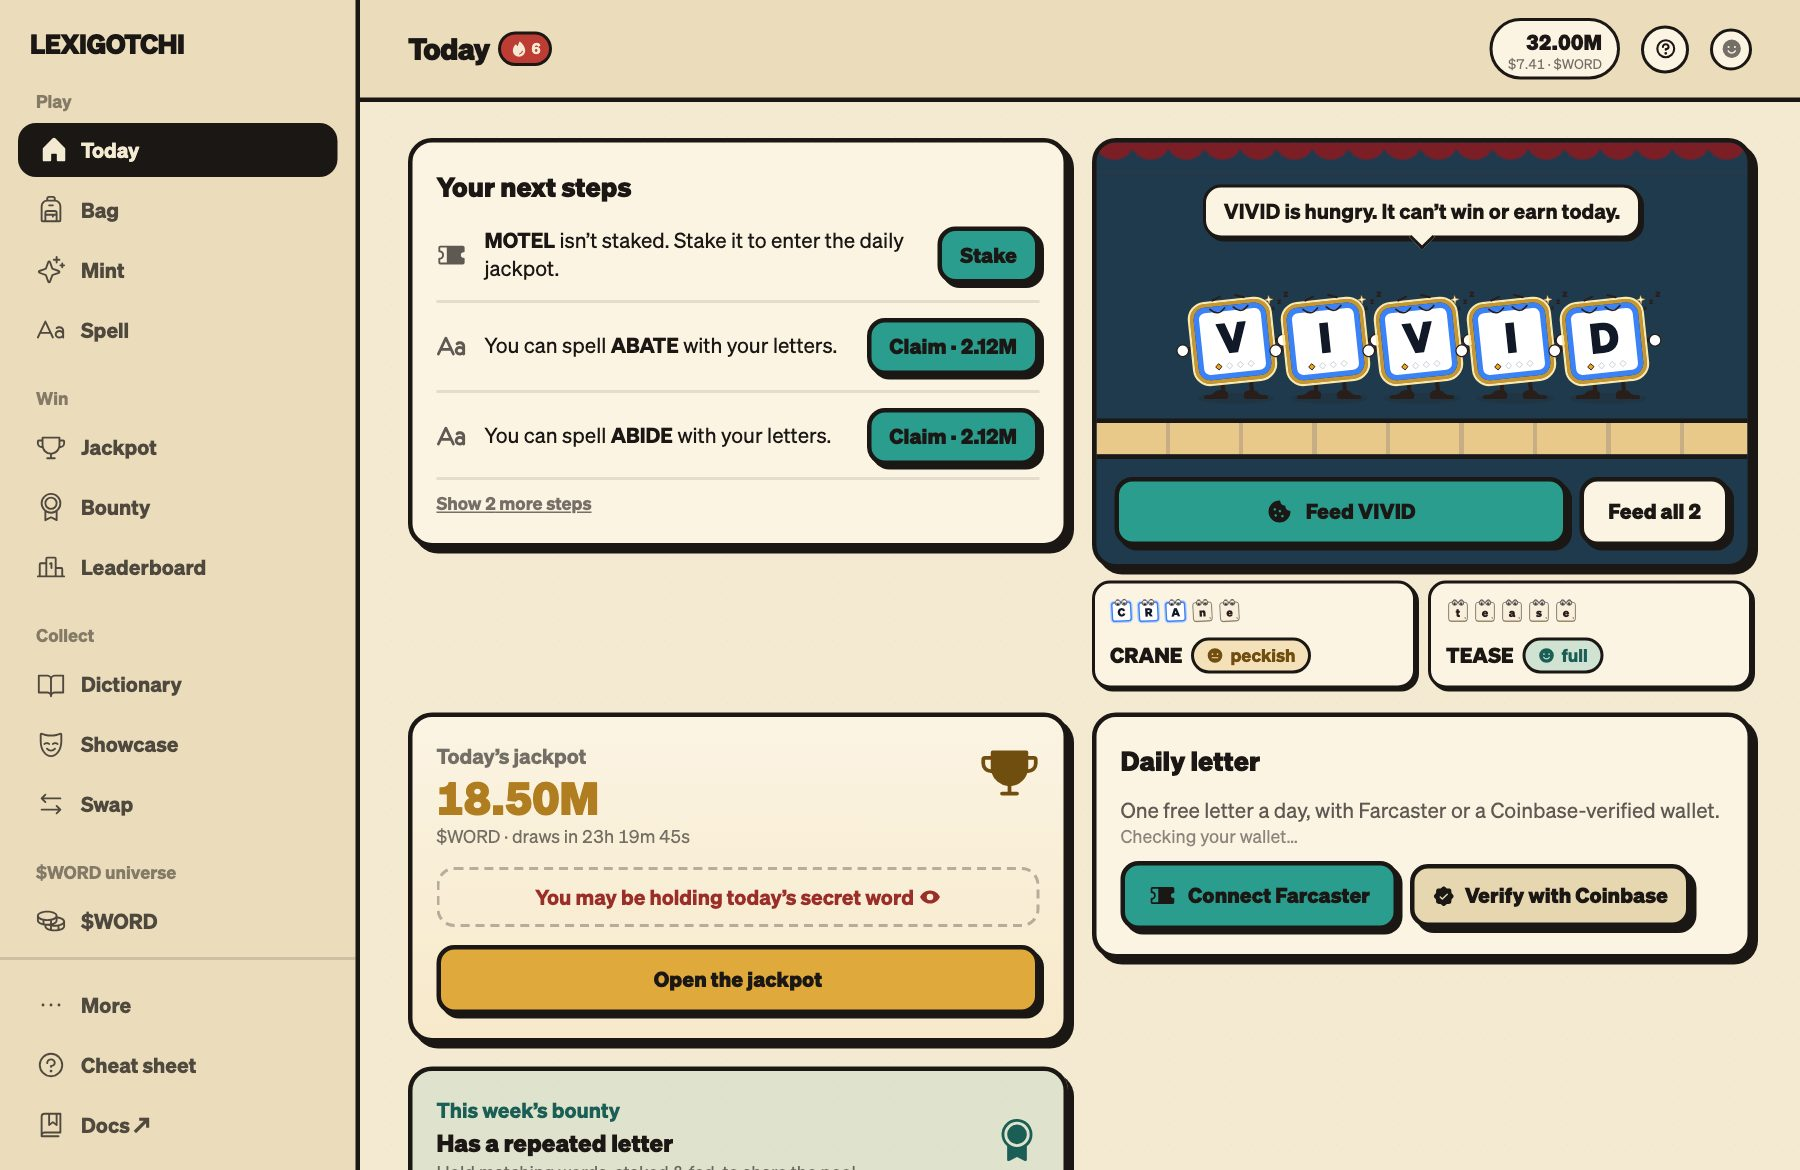
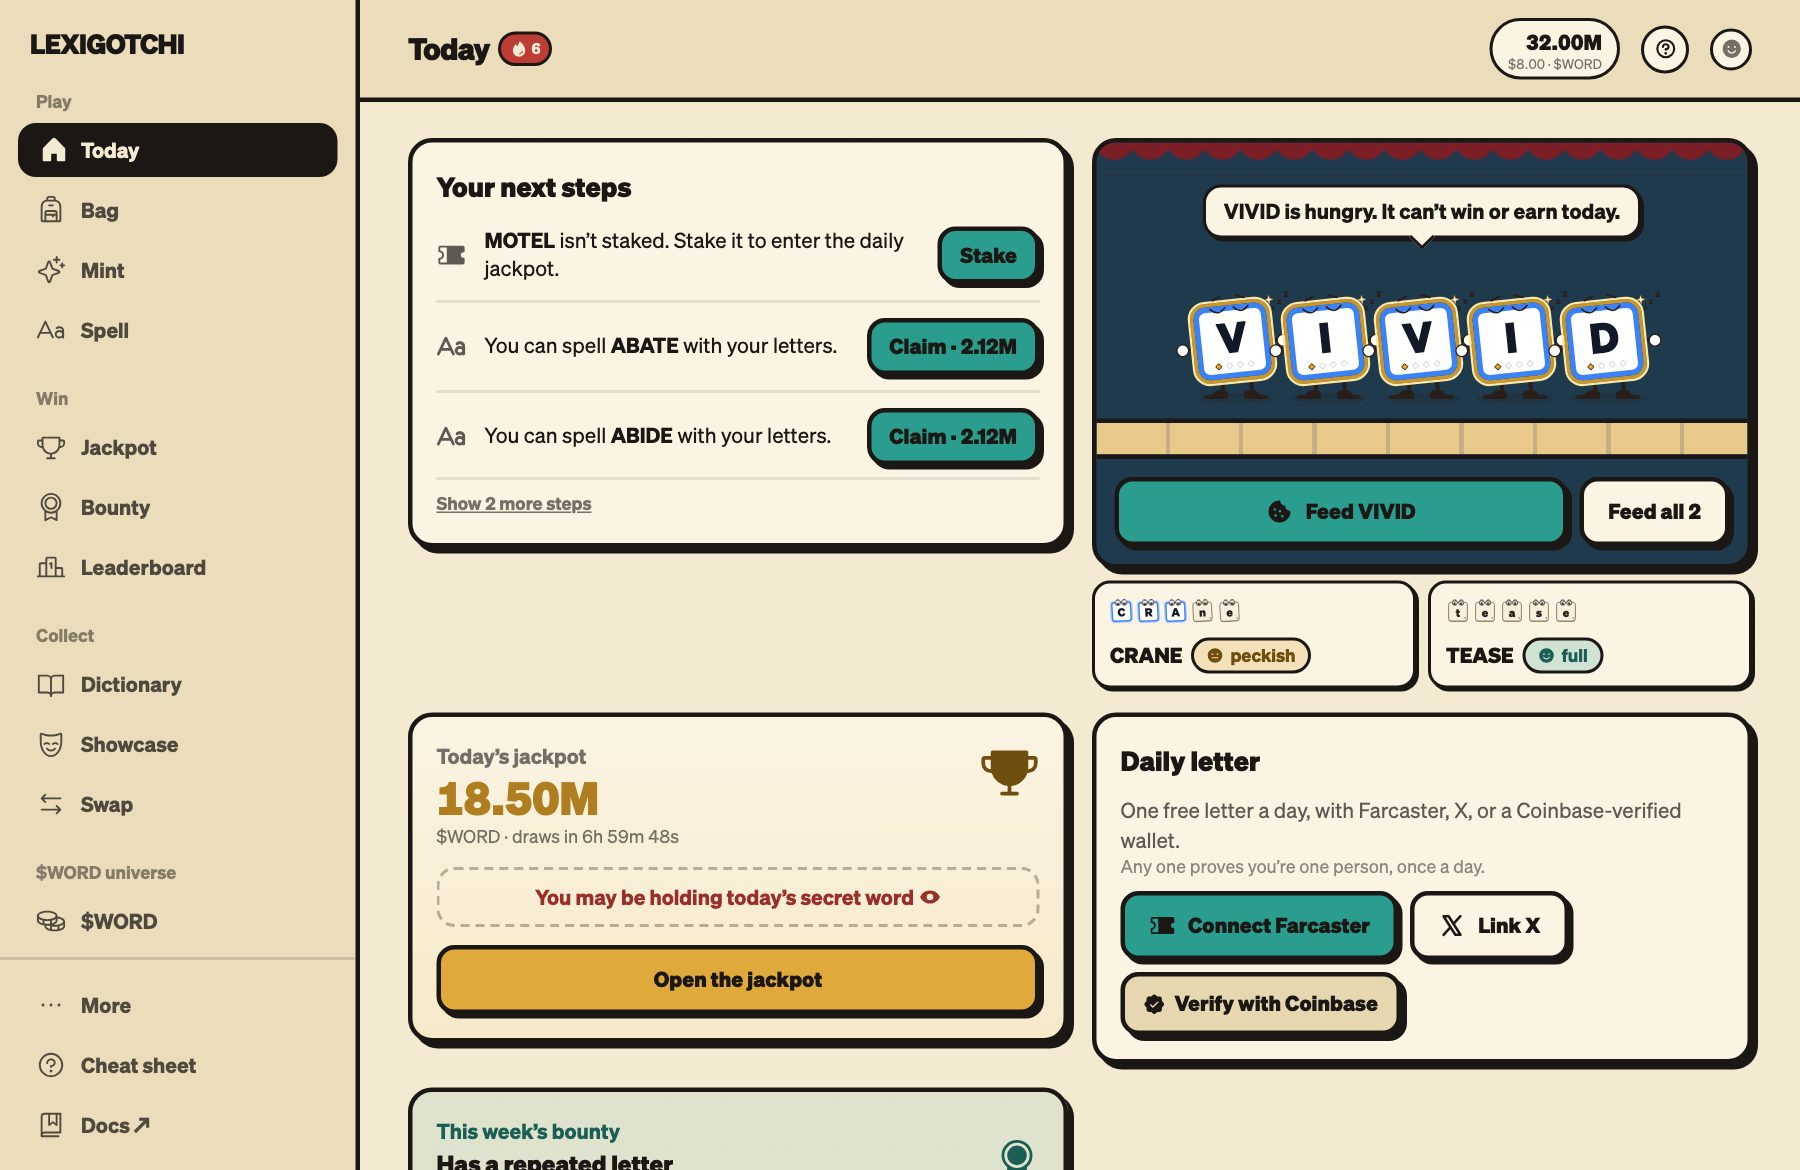
Profiles, X, and email go on: a profile page in the docs, X and email in every unlock list
- docs: new "Your profile" page (linked accounts, name and picture, email reminders) with a
  screenshot; X in the daily letter's unlock list, the FAQ, and the quickstart; email in the
  reminders section and the quickstart.
- Landing page: an X door and "email optional" copy, each shown only while the server has that
  switch on (xEnabled / emailEnabled read in src/app/page.tsx).
- Daily letter card: with no wallet connected it said "Checking your wallet…" forever, because
  the Coinbase check stays unknown without an address. No wallet now means nothing to check.
- docs:shots: an optional list of shots to remake, and a profile shot taken with a pretend
  wallet (made-up address) when the server has profiles and X on.
- decisions.md #9 amended; the runbook and CLAUDE.md record the 2026-11-24 switch-on.

Changed region(s): [[0.2178, 0.7077, 0.9956, 1.0], [0.8089, 0.6769, 0.9644, 0.7077], [0.3111, 0.7077, 0.3733, 0.7385]]

diff --git a/src/components/landing/LandingPage.tsx b/src/components/landing/LandingPage.tsx
@@ -27,6 +27,7 @@ import {
   Sparkle,
   Trophy,
   Wallet,
+  XLogo,
 } from "@/components/game/ui/icons";
 
 const WORD_TOKEN = "0x304e649e69979298bd1aee63e175adf07885fb4b"; // $WORD on Base (the LHAW token)
@@ -219,7 +220,12 @@ const A = ({ href, children }: { href: string; children: ReactNode }) => (
 // Page
 // ---------------------------------------------------------------------------
 
-export function LandingPage() {
+/**
+ * `xOn`: X linking is switched on (`xEnabled()`, read by the server page). It adds X as a door to the
+ * free daily letter, so the page never offers an account the game can't link yet. `emailOn`: email
+ * reminders are switched on (`emailEnabled()`), so "no email" becomes "email optional".
+ */
+export function LandingPage({ xOn = false, emailOn = false }: { xOn?: boolean; emailOn?: boolean }) {
   const practice = !isRealEconomy();
   const { baseSuccess, pityCap } = DEFAULT_PARAMS.roll;
   const care = DEFAULT_PARAMS.care;
@@ -358,9 +364,11 @@ export function LandingPage() {
       {/* Wallets */}
       <section className="mx-auto max-w-6xl px-5 py-20 sm:px-8">
         <SectionHead kicker="Start playing" title="Bring any wallet.">
-          No sign-up and no email. Your wallet is your Lexigotchi account, and your letters and words live in it.
+          {emailOn
+            ? "No sign-up. Your wallet is your Lexigotchi account, and your letters and words live in it. An email is optional, for reminders."
+            : "No sign-up and no email. Your wallet is your Lexigotchi account, and your letters and words live in it."}
         </SectionHead>
-        <div className="mt-12 grid gap-6 md:grid-cols-3">
+        <div className={`mt-12 grid gap-6 ${xOn ? "md:grid-cols-2 lg:grid-cols-4" : "md:grid-cols-3"}`}>
           <Door icon={<Wallet weight="fill" size={24} aria-hidden />} name="Your wallet" tag="Needed">
             MetaMask, Rabby, Phantom, Coinbase Wallet, or any browser wallet.
           </Door>
@@ -375,8 +383,14 @@ export function LandingPage() {
           >
             Link it to unlock one free letter a day. Inside Farcaster, the game connects on its own.
           </Door>
+          {xOn && (
+            <Door icon={<XLogo weight="bold" size={22} className="text-paper" aria-hidden />} name="X" tag="Optional" iconBg="bg-ink">
+              Link an X account older than 90 days for the same free daily letter. It shows publicly next to your wallet.
+            </Door>
+          )}
           <Door icon={<SealCheck weight="fill" size={24} className="text-[#0052ff]" aria-hidden />} name="Coinbase verification" tag="Optional">
-            No Farcaster? A <A href={VERIFY_URL}>Coinbase-verified</A> wallet unlocks the same free daily letter.
+            {xOn ? "No Farcaster or X? " : "No Farcaster? "}A <A href={VERIFY_URL}>Coinbase-verified</A> wallet unlocks the same
+            free daily letter.
           </Door>
         </div>
       </section>
@@ -392,7 +406,9 @@ export function LandingPage() {
           </div>
           <div className="space-y-4">
             <Qa q="Do I need a Farcaster account?">
-              No. Your wallet is your account. Linking Farcaster is optional, and it unlocks the free daily letter.
+              {xOn
+                ? "No. Your wallet is your account. Linking Farcaster is optional. The free daily letter needs Farcaster, X, or a Coinbase-verified wallet."
+                : "No. Your wallet is your account. Linking Farcaster is optional, and it unlocks the free daily letter."}
             </Qa>
             <Qa q="What is $WORD?">
               <A href={LINKS.word}>$WORD</A> is the token on Base behind Lexigotchi and{" "}

diff --git a/src/components/game/DailyUnlock.tsx b/src/components/game/DailyUnlock.tsx
@@ -7,6 +7,7 @@
  * CTAs, not a hierarchy: a Base App player has no Farcaster context at all (the host dropped FID
  * identity 2026-04-09), so for them the verify path isn't the fallback, it's the door.
  */
+import { useAccount } from "wagmi";
 import { Button } from "./primitives";
 import { Ticket, SealCheck, XLogo } from "./ui/icons";
 import { useGame } from "./state";
@@ -18,13 +19,16 @@ import { VERIFY_URL } from "@/lib/onchain/verifications";
 /** One answer for "may this player pull the daily?" — both screens branch on this. */
 export function useDailyEligibility(): { eligible: boolean; checking: boolean } {
   const viewer = useViewer();
+  const { address } = useAccount();
   const { verified } = useVerifiedWallet();
   const x = usePublicProfile();
   return {
     eligible: viewer.isAuthed || x.xCounts || verified === true,
     // Farcaster context still resolving, the profile still loading, or the attestation check still
     // in flight — during any, the locked row would be a lie about a player about to be eligible.
-    checking: viewer.environment === "loading" || (!viewer.isAuthed && !x.xCounts && (verified === null || x.loading)),
+    // With no wallet there is nothing to check: `verified` stays null for good, so it can't count.
+    checking:
+      viewer.environment === "loading" || (!viewer.isAuthed && !x.xCounts && ((Boolean(address) && verified === null) || x.loading)),
   };
 }
 
@@ -33,7 +37,9 @@ export function DailyUnlock() {
   const { verified, recheck } = useVerifiedWallet();
   const { xEnabled } = usePublicProfile();
   const { openSheet } = useGame();
-  const checking = viewer.environment === "loading" || verified === null;
+  const { address } = useAccount();
+  // No wallet, nothing to check: useVerifiedWallet keeps `null` until a wallet connects.
+  const checking = viewer.environment === "loading" || (Boolean(address) && verified === null);
 
   return (
     <div className="space-y-2">

diff --git a/src/app/page.tsx b/src/app/page.tsx
@@ -1,6 +1,8 @@
 import type { Metadata } from "next";
 import { LandingPage } from "@/components/landing/LandingPage";
 import { miniAppEmbed, frameEmbed, BASE_APP_ID } from "@/lib/site";
+import { xEnabled } from "@/lib/profile/x";
+import { emailEnabled } from "@/lib/notify/email";
 
 /**
  * The front door on the open web. The game itself stays at `/play`, which is also the mini app's
@@ -22,5 +24,6 @@ export const metadata: Metadata = {
 };
 
 export default function Home() {
-  return <LandingPage />;
+  // Read on the server, so the page offers X and email only while the game can use them.
+  return <LandingPage xOn={xEnabled()} emailOn={emailEnabled()} />;
 }

diff --git a/docs/web3-runtime-plan.md b/docs/web3-runtime-plan.md
@@ -163,21 +163,16 @@ the mainnet addresses, remove both, and consider adding the contract addresses t
 
 Two more notes come out when a switch flips, not with the launch PR:
 
-- **Reminders.** The note under "Reminders" in `docs-site/care.mdx` and the sentence "Reminders
-  aren’t switched on yet" in the FAQ's hunger answer. They come out once web push
-  (`WEB_PUSH_ENABLED`, the VAPID keys, migration 0003) and Farcaster notifications
+- **Reminders.** The note under "Reminders" in `docs-site/care.mdx` and the matching sentence in
+  the FAQ's hunger answer say email reminders are on and the Farcaster and browser ones aren't.
+  They come out once web push (`WEB_PUSH_ENABLED`, the VAPID keys) and Farcaster notifications
   (`NOTIFICATIONS_ENABLED`) are on in production.
-- **X linking.** Turning it on needs an X Developer Console app (OAuth 2.0, Web App), the
-  callback `https://lexigotchi.fun/api/x/callback` registered exactly, prepaid API credits, and
-  `X_CLIENT_ID` + `X_CLIENT_SECRET` in Vercel (profiles on first). Then the player docs gain X:
-  `docs-site/letters.mdx` (the daily's unlock list, with the 90-day rule), `docs-site/faq.mdx`
-  ("Do I need a Farcaster account?"), and the quickstart.
-- **Email reminders.** Turning it on needs a Resend account with a verified sending domain (DNS on
-  lexigotchi.fun or a subdomain), then `RESEND_API_KEY`, `EMAIL_FROM`, and `EMAIL_ENABLED=true` in
-  Vercel (profiles on first). The same PR changes the "no sign-up and no email" copy in
-  `src/components/LandingPage.tsx` and `docs-site/quickstart.mdx` to "email optional", amends
-  decisions.md #9, adds email to the reminders section of `docs-site/care.mdx`, and adds the email
-  to the privacy notes if there are any by then.
+- **Profiles, X linking, and email reminders: switched on 2026-11-24.** Migrations 0003–0007 ran in
+  production that day, and the docs PR added `docs-site/profile.mdx` and X and email to the letters,
+  FAQ, quickstart, and reminders pages. The landing page follows the switches on its own
+  (`xEnabled()`/`emailEnabled()` in `src/app/page.tsx`). If X or email is ever switched off again,
+  change those docs pages back in the same step. X's callback is
+  `https://lexigotchi.fun/api/x/callback`, and X bills each link from prepaid credits.
 - **Ascension.** The note at the top of `docs-site/ascension.mdx` and "It isn’t switched on yet" in
   the FAQ. They come out when `PRESTIGE_MAX_LEVEL` is raised above 0. If the fee, odds, or
   multipliers change from `params.ts` before then, update that page too.

diff --git a/docs/decisions.md b/docs/decisions.md
@@ -131,6 +131,13 @@ showed; only the *decisions* changed.
    (unless we get it somehow?)". So browser push (Web Push, VAPID), keyed by wallet, ships dark
    behind `WEB_PUSH_ENABLED`; nobody already reached on Farcaster gets the same message twice. No
    email: nothing in the game collects one.
+   **AMENDED 2026-11-24 — profiles, X, and email are on** (starl3xx, 2026-11-23: "link X, Farcaster,
+   or Coinbase for a free daily letter", "Reminders by email", "Public, with a clear notice"). The
+   profile (`sheets/ProfileSheet.tsx`) links X (OAuth 2.0; an X account older than 90 days also
+   unlocks the free daily, one letter a day per player across every linked account) and takes an
+   OPTIONAL email, confirmed with a 6-digit code, for hunger, daily-letter, and jackpot reminders,
+   each with one-click unsubscribe. The player copy now says "an email is optional" instead of "no
+   email". The name and picture come only from a linked X or Farcaster account.
    Open, not yet ruled: whether the game should REMEMBER a link across visits (today the Farcaster
    session is tab-scoped by design, `src/lib/auth/siwfWeb.ts`).
 10. **Chain reads — a custom Neon/Drizzle indexer + viem multicall** (not a subgraph).

diff --git a/CLAUDE.md b/CLAUDE.md
@@ -112,7 +112,9 @@ for the mini app; sim/economy core is **zero-runtime-dependency TS** (runs via `
   jackpot-win reminders go by email to opted-in wallets, each with RFC 8058 one-click unsubscribe
   (`/api/email/unsubscribe`, an HMAC of the wallet; GET shows a button, POST unsubscribes). The
   address is never public or logged. Dark until `EMAIL_ENABLED=true` + `RESEND_API_KEY` +
-  `EMAIL_FROM`; until then the player copy still says "no email" (switch-on changes it).
+  `EMAIL_FROM`. Switched on in production 2026-11-24 with profiles and X; the landing page reads
+  `xEnabled()`/`emailEnabled()` on the server, so its X door and "email optional" copy follow the
+  switches, while `docs-site/` describes them as on.
 - **Letter draws are sticky** (`src/lib/onchain/stickyDraw.ts` + table `letter_draws`): the first draw
   served for a pack commit (`c:<commitId>`) or an identity's daily (`d:<key>:<day>`) is served again
   while it can still be minted. A draw depends on which letters are uncapped, so without this a
